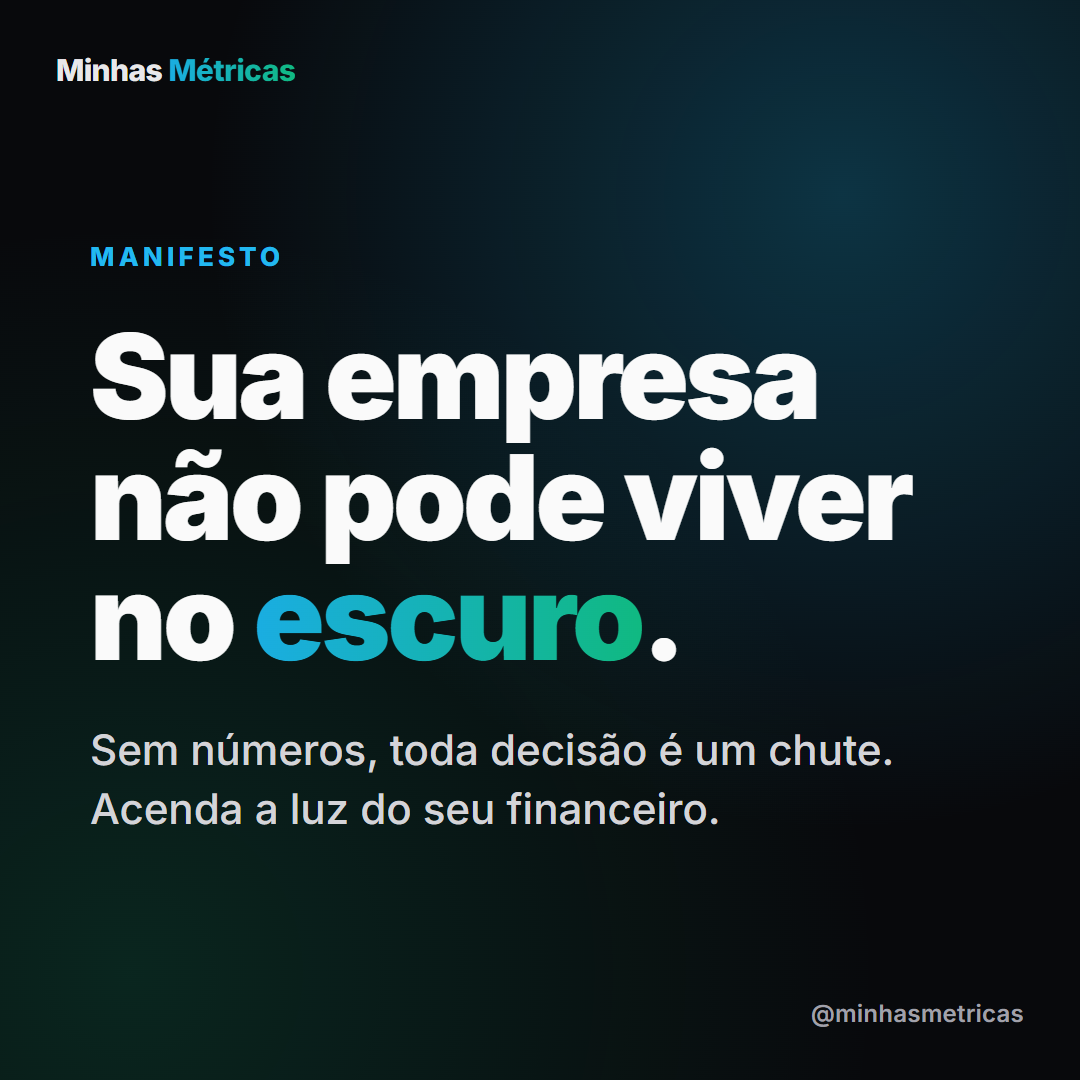
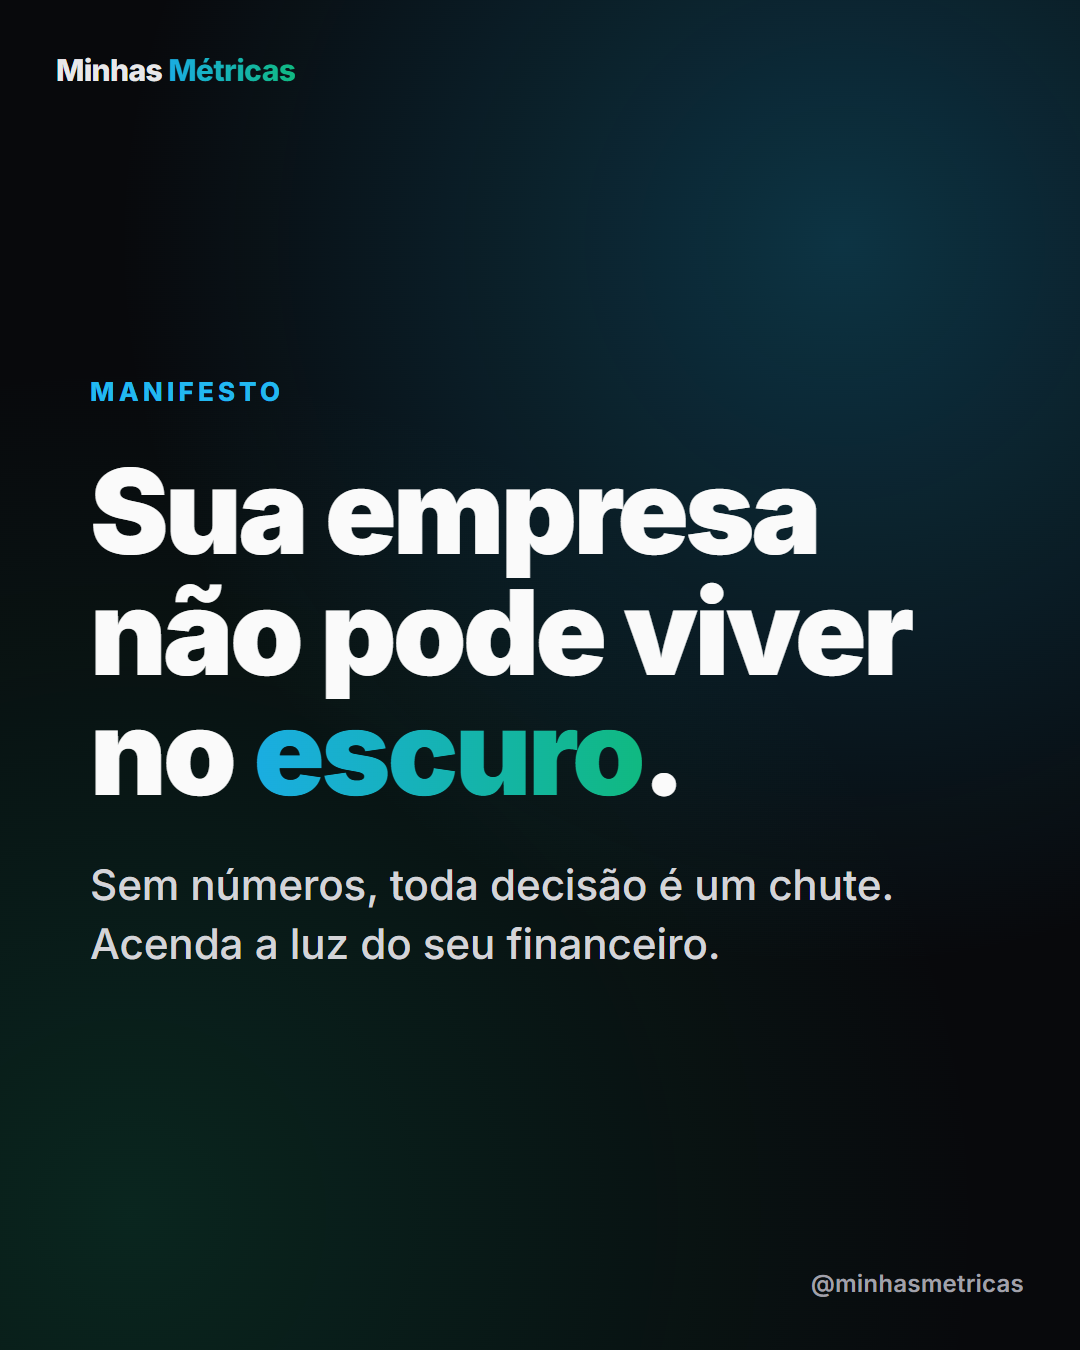
IG: posts em 1080x1350 (retrato 4:5), perfil segue 1080x1080
Ajusta altura do canvas dos posts e re-exporta os PNGs. Remove travessao no post 4.

diff --git a/marketing/instagram-kit.html b/marketing/instagram-kit.html
@@ -59,8 +59,8 @@
   /* scale wrappers give the shrunken preview a real footprint */
   .prev-profile{width:346px;height:346px}                 /* 1080 * .32 */
   .prev-profile .canvas{transform:scale(.32);transform-origin:top left}
-  .prev-post{width:367px;height:367px}                    /* 1080 * .34 */
-  .prev-post .canvas{transform:scale(.34);transform-origin:top left}
+  .prev-post{width:367px;height:459px}                    /* 1080x1350 * .34 (retrato 4:5) */
+  .prev-post .canvas{transform:scale(.34);transform-origin:top left;height:1350px}
 
   /* ---------- Profile section ---------- */
   .profile-row{display:flex;gap:40px;flex-wrap:wrap;align-items:flex-start}
@@ -330,7 +330,7 @@ Você sabe qual é o seu? Descobre no link da bio.</div>
             <div class="p-pad" style="justify-content:center;align-items:center;text-align:center;gap:40px">
               <div style="font-size:200px;line-height:.6;color:#1AADE2;font-weight:900;opacity:.5">&ldquo;</div>
               <div class="p-title" style="font-size:110px">Quem não mede,<br>não gerencia.</div>
-              <div class="p-sub" style="font-size:36px;color:#71717a">— e quem não gerencia, torce.</div>
+              <div class="p-sub" style="font-size:36px;color:#71717a">E quem não gerencia, torce.</div>
             </div>
             <div class="p-site left" style="right:56px;left:auto">@minhasmetricas</div>
           </div>
